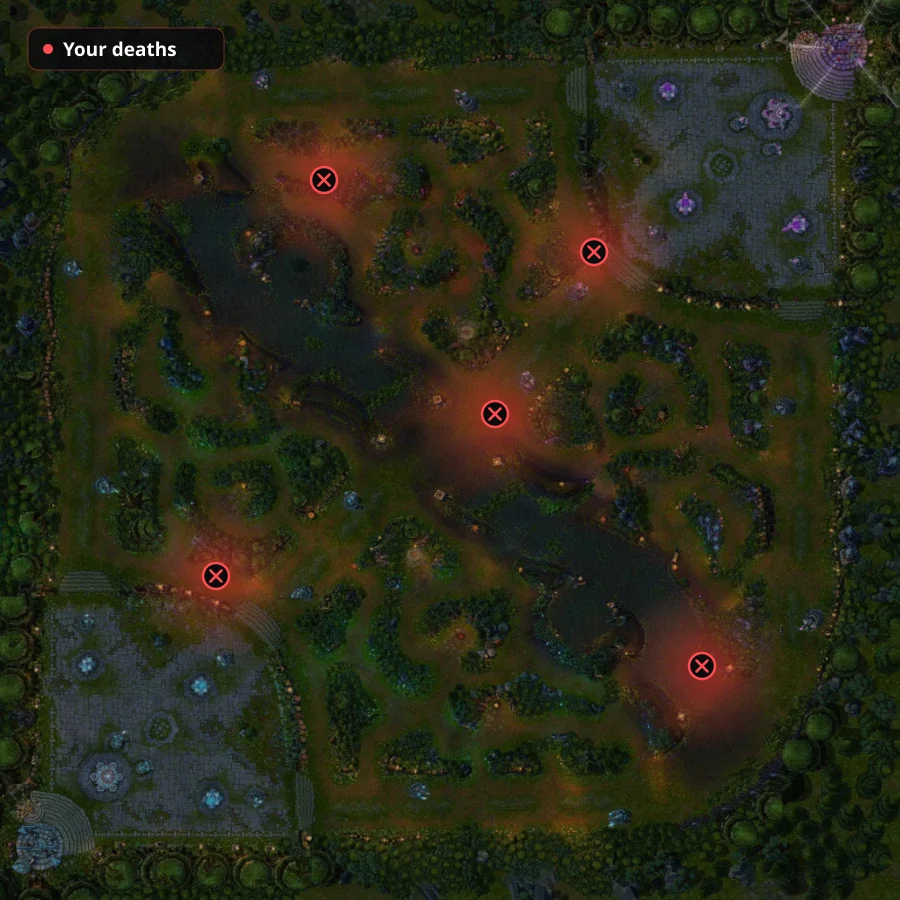
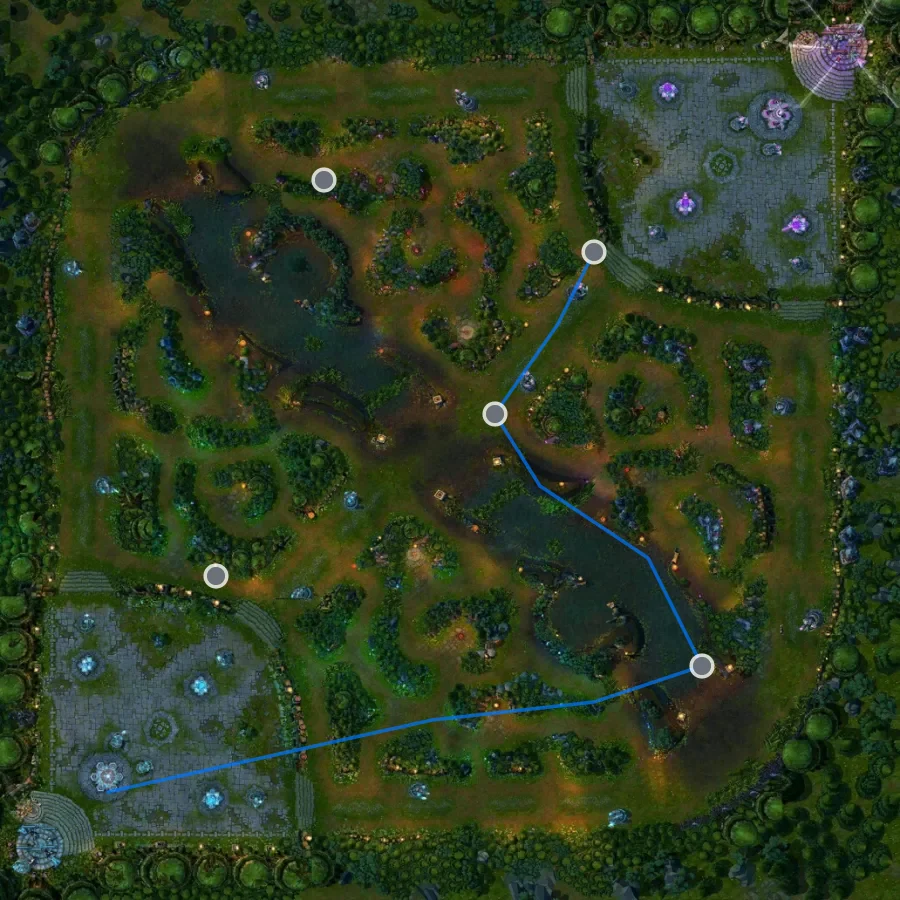
show the live replay ui on the landing page

diff --git a/frontend/src/landing/sections/PositioningSection.tsx b/frontend/src/landing/sections/PositioningSection.tsx
@@ -1,18 +1,22 @@
 import { MoveRight } from "lucide-react";
 import { Compare } from "@/components/ui/aceternity/compare";
+import MatchReplayMenuRow from "../../components/MatchReplayMenuRow";
 import imgActual from "../../assets/images/landing/positioning-actual.webp";
 import imgOptimal from "../../assets/images/landing/positioning-optimal.webp";
+import { SAMPLE_MATCH, SAMPLE_VIEWER } from "../replaySample";
 
+/* The swatches are the marker fills MatchReplayMapOverlay uses, so the key
+   reads against the map rather than against a second palette. */
 const READING = [
   {
-    dot: "bg-red-500",
+    dot: "bg-vp-faint ring-2 ring-white/80",
     label: "Where you died",
     body: "Five deaths, four of them past the river line with no vision behind you.",
   },
   {
-    dot: "bg-cyan-300",
+    dot: "bg-[#22d3ee]",
     label: "The correction",
-    body: "The vector to the nearest winning snapshot — usually one screen back, not a different play.",
+    body: "The vector to the nearest winning snapshot, usually one screen back rather than a different play.",
   },
   {
     dot: "bg-[#e0b46c]",
@@ -69,13 +73,17 @@ export default function PositioningSection() {
         </div>
 
         <div className="flex justify-center">
-          <div className="rounded-3xl border border-white/10 bg-[#0a0b10] p-3 shadow-[0_0_80px_-30px_rgba(224,180,108,0.5)]">
+          {/* The same card the Match Replay screen draws: the summary row above
+              a square map, so the comparison reads as the product rather than a
+              pair of loose screenshots. */}
+          <div className="flex flex-col gap-[8px] rounded-xl bg-vp-canvas p-[8px] shadow-[0_0_80px_-30px_rgba(224,180,108,0.5)]">
+            <MatchReplayMenuRow match={SAMPLE_MATCH} viewer={SAMPLE_VIEWER} />
             <Compare
               firstImage={imgActual}
               secondImage={imgOptimal}
               firstImageClassName="object-cover"
               secondImageClassname="object-cover"
-              className="h-[300px] w-[300px] sm:h-[420px] sm:w-[420px] lg:h-[500px] lg:w-[500px]"
+              className="h-[300px] w-[300px] overflow-hidden rounded-[8px] sm:h-[420px] sm:w-[420px] lg:h-[500px] lg:w-[500px]"
               slideMode="drag"
               autoplay
               autoplayDuration={6000}

diff --git a/frontend/src/landing/sections/ReplayPreview.tsx b/frontend/src/landing/sections/ReplayPreview.tsx
@@ -95,22 +95,22 @@ export default function ReplayPreview() {
     >
       <MatchReplayMenuRow match={SAMPLE_MATCH} viewer={SAMPLE_VIEWER} />
 
-      <MatchReplayToolbar
-        mode={toolbarMode}
-        playersOpen={playersOpen}
-        activeActions={activeActions}
-        players={SAMPLE_PLAYERS}
-        selectedPuuids={selectedPuuids}
-        onToggleMode={handleToggleMode}
-        onActionClick={handleActionClick}
-        onTogglePlayer={handleTogglePlayer}
-        position="top"
-      />
+      {/* Same row the Match Replay screen draws: the tool rail, then the square
+          map, then the coaching panel. The map is driven by the height left in
+          the card rather than by the viewport, so the whole thing fits the
+          fixed-height showcase frame. */}
+      <div className="flex min-h-0 flex-1 items-start justify-center gap-[10px]">
+        <MatchReplayToolbar
+          mode={toolbarMode}
+          playersOpen={playersOpen}
+          activeActions={activeActions}
+          players={SAMPLE_PLAYERS}
+          selectedPuuids={selectedPuuids}
+          onToggleMode={handleToggleMode}
+          onActionClick={handleActionClick}
+          onTogglePlayer={handleTogglePlayer}
+        />
 
-      {/* The map is square and driven by the height left in the card. The
-          coaching panel keeps the width it has in the dashboard rather than
-          stretching over the slack. */}
-      <div className="flex min-h-0 flex-1 items-stretch justify-center gap-[16px]">
         <div
           data-name="Map"
           className="relative aspect-square h-full shrink-0 overflow-hidden rounded-[8px] bg-[#1a1a1a]"
@@ -152,7 +152,7 @@ export default function ReplayPreview() {
           />
         </div>
 
-        <div className="hidden min-w-0 max-w-[380px] flex-1 sm:flex">
+        <div className="ml-[6px] hidden h-full min-w-0 max-w-[380px] flex-1 overflow-hidden sm:flex">
           <AiCoachingComments notes={SAMPLE_COACHING_NOTES} />
         </div>
       </div>

diff --git a/frontend/src/landing/sections/ShowcaseSection.tsx b/frontend/src/landing/sections/ShowcaseSection.tsx
@@ -1,6 +1,6 @@
 import { ContainerScroll } from "@/components/ui/aceternity/container-scroll-animation";
 import { PointerHighlight } from "@/components/ui/aceternity/pointer-highlight";
-import imgShowcase from "../../assets/images/landing/showcase-replay.webp";
+import ReplayPreview from "./ReplayPreview";
 
 export default function ShowcaseSection() {
   return (
@@ -32,12 +32,7 @@ export default function ShowcaseSection() {
           </div>
         }
       >
-        <img
-          src={imgShowcase}
-          alt="Vantage Point match replay: the Summoner's Rift map with kill, death and path overlays alongside the player list"
-          draggable={false}
-          className="mx-auto h-full w-full rounded-2xl object-cover object-left-top"
-        />
+        <ReplayPreview />
       </ContainerScroll>
     </section>
   );
